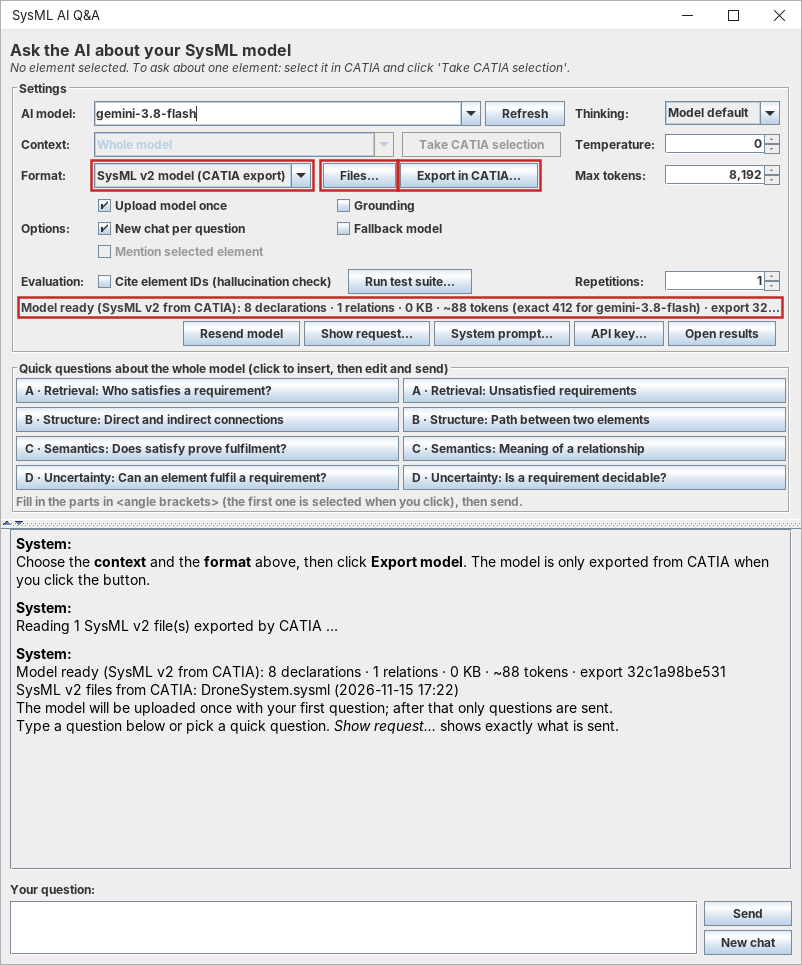
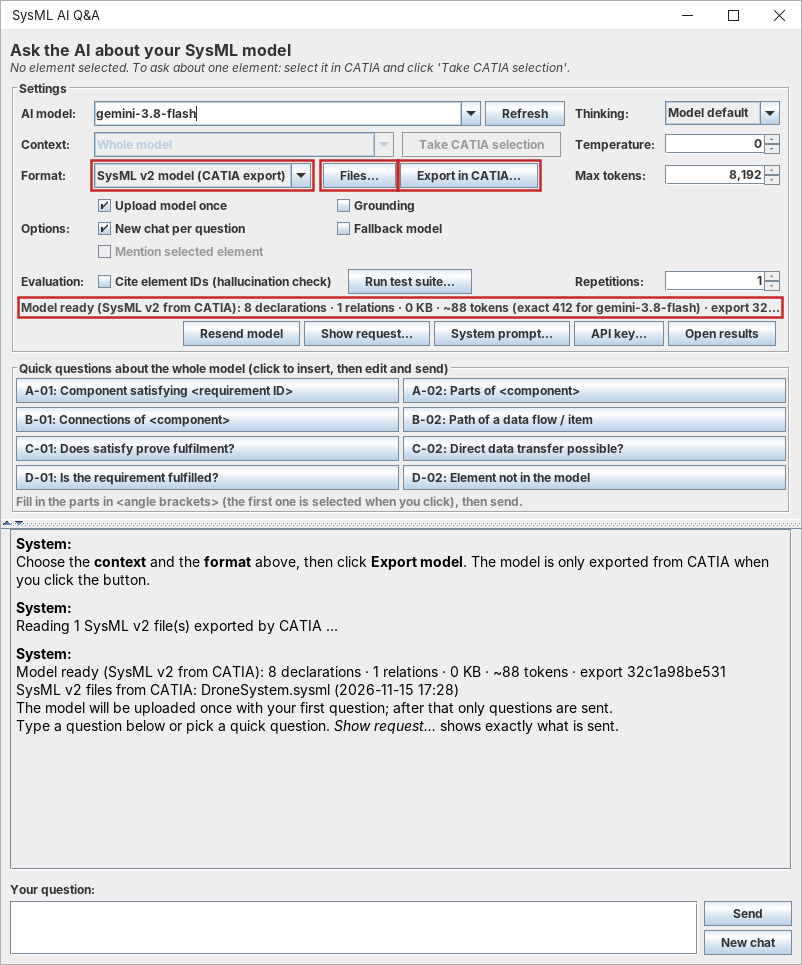
v3.5.1: Schnellfragen durch Fragenkatalog A-01 bis D-02 ersetzt

Changed region(s): [[0.0312, 0.4041, 0.4052, 0.4974], [0.5299, 0.4041, 0.8105, 0.4974]]

diff --git a/src/de/hm/sysmlaiqa/api/QuickQuestions.java b/src/de/hm/sysmlaiqa/api/QuickQuestions.java
@@ -6,24 +6,22 @@ import java.util.List;
 import java.util.stream.Collectors;
 
 /**
- * Schnellfragen als allgemeine Vorlagen mit Platzhaltern (z. B. "<add requirement>"), die der Nutzer ausfüllt.
- * Aufbau nach den vier Kategorien der Aufgabenstellung (Beispiele aus der Projektbeschreibung):
- *   A Information Retrieval  – "Welche Komponente erfüllt die Anforderung XYZ?"
- *   B Structural Reasoning   – "Welche Komponenten stehen indirekt mit Bauteil XYZ in Verbindung?"
- *   C Semantic Reasoning     – "Beweist eine satisfy-Beziehung, dass eine Anforderung tatsächlich erfüllt ist?"
- *   D Uncertainty            – "Reicht die Batterie für vier Stunden Betriebszeit?"
- * Zwei Sätze: Fragen zum ganzen Modell (nur Platzhalter) und Fragen zu einem Element (ausgewähltes Element eingesetzt).
+ * Schnellfragen: die acht Testfragen des Fragenkatalogs (A-01 … D-02) als Vorlagen mit Platzhaltern in spitzen
+ * Klammern, die der Nutzer ausfüllt. Kategorien:
+ *   A Information Retrieval, B Structural Reasoning, C Semantic Reasoning, D Uncertainty.
+ * Ist ein Element ausgewählt, setzt das Plugin seinen Namen in die passenden Platzhalter ein:
+ * bei einer Anforderung in "<requirement ID…>", sonst in "<component>" bzw. "<component 1>".
  */
 public final class QuickQuestions {
 
-    public static final String REQ = "<add requirement>";
-    public static final String ELEM = "<add element>";
-    public static final String ELEM2 = "<add second element>";
+    public static final String REQ = "<requirement ID>";
+    public static final String COMP = "<component>";
+    public static final String COMP1 = "<component 1>";
 
     private QuickQuestions() { }
 
     public static class Question {
-        public final String category;  // z. B. "A · Retrieval"
+        public final String category;  // z. B. "A-01"
         public final String label;     // kurzer Button-Text
         public final String text;      // vollständige Frage
 
@@ -40,16 +38,27 @@ public final class QuickQuestions {
      * @param focusName   Name des ausgewählten Elements oder null
      * @param focusType   Typ des ausgewählten Elements (z. B. "Requirement", "Block") oder null
      * @param seed        nicht mehr verwendet (Vorlagen sind fest)
-     * @param elementMode true = Fragen zum Element, false = Fragen zum ganzen Modell
+     * @param elementMode true = ausgewähltes Element einsetzen, false = alle Platzhalter frei
      */
     public static List<Question> generate(ModelIndex idx, String focusId, String focusName, String focusType,
                                           long seed, boolean elementMode) {
-        if (!elementMode || focusName == null || focusName.isBlank()) return modelQuestions();
+        List<Question> all = catalogue();
+        if (!elementMode || focusName == null || focusName.isBlank()) return all;
         ModelIndex.Elem e = idx == null ? null : findFocus(idx, focusId, focusName);
         boolean isRequirement = (e != null && e.isRequirement())
                 || (focusType != null && focusType.contains("Requirement"));
         String x = "\"" + focusName.trim() + "\"";
-        return isRequirement ? requirementQuestions(x) : elementQuestions(x);
+        List<Question> out = new ArrayList<>();
+        for (Question q : all) {
+            String text = isRequirement
+                    ? q.text.replaceFirst("<requirement ID[^>]*>", java.util.regex.Matcher.quoteReplacement(x))
+                    : q.text.replace(COMP, x).replace(COMP1, x);
+            String label = isRequirement
+                    ? q.label.replaceFirst("<requirement ID[^>]*>", java.util.regex.Matcher.quoteReplacement(x))
+                    : q.label.replace(COMP, x).replace(COMP1, x);
+            out.add(new Question(q.category, label, text));
+        }
+        return out;
     }
 
     public static List<Question> generate(ModelIndex idx, String focusId, long seed, boolean elementMode) {
@@ -57,92 +66,35 @@ public final class QuickQuestions {
     }
 
     // ═══════════════════════════════════════════════════════════════════════
-    // Ganzes Modell – alle Platzhalter frei
+    // Fragenkatalog A-01 … D-02
     // ═══════════════════════════════════════════════════════════════════════
 
-    private static List<Question> modelQuestions() {
+    private static List<Question> catalogue() {
         List<Question> q = new ArrayList<>();
-        q.add(new Question("A · Retrieval", "Who satisfies a requirement?",
-                "Which component satisfies the requirement " + REQ + "? Name each element and the relationship type."));
-        q.add(new Question("A · Retrieval", "Unsatisfied requirements",
-                "Which requirements in the model are not satisfied by any element? List them by name."));
-        q.add(new Question("B · Structure", "Direct and indirect connections",
-                "Which components are directly or indirectly connected to " + ELEM + "? Show the path for each."));
-        q.add(new Question("B · Structure", "Path between two elements",
-                "How is " + ELEM + " connected to " + ELEM2 + "? Show the complete chain of relationships, element by element, "
-                        + "with the relationship type at each step."));
-        q.add(new Question("C · Semantics", "Does satisfy prove fulfilment?",
-                "Does the satisfy relationship of " + REQ + " prove that the requirement is actually fulfilled? "
-                        + "Explain using the model (verify relationships, test cases, constraints, values)."));
-        q.add(new Question("C · Semantics", "Meaning of a relationship",
-                "What does the relationship between " + ELEM + " and " + ELEM2 + " mean technically for the system, "
-                        + "and what does it NOT guarantee?"));
-        q.add(new Question("D · Uncertainty", "Can an element fulfil a requirement?",
-                "Can " + ELEM + " fulfil the requirement " + REQ + "? If the model does not contain enough information "
-                        + "to decide this, say so and name exactly what is missing."));
-        q.add(new Question("D · Uncertainty", "Is a requirement decidable?",
-                "Is there enough information in the model to decide whether " + REQ + " is fulfilled? "
-                        + "If not, name exactly which values or relationships are missing."));
-        return q;
-    }
-
-    // ═══════════════════════════════════════════════════════════════════════
-    // Ein Element (kein Requirement) – Element eingesetzt
-    // ═══════════════════════════════════════════════════════════════════════
-
-    private static List<Question> elementQuestions(String x) {
-        List<Question> q = new ArrayList<>();
-        q.add(new Question("A · Retrieval", "Requirements of " + x,
-                "Which requirements does " + x + " satisfy, and through which relationships?"));
-        q.add(new Question("A · Retrieval", "Parts, ports, values of " + x,
-                "Which parts, ports and value properties does " + x + " have? List each with its type and, if given, its value."));
-        q.add(new Question("B · Structure", "Connections of " + x,
-                "Which components are directly or indirectly connected to " + x + "? Show the path for each."));
-        q.add(new Question("B · Structure", "Path from " + x + " to another element",
-                "How is " + x + " connected to " + ELEM + "? Show the complete chain of relationships, element by element, "
-                        + "with the relationship type at each step."));
-        q.add(new Question("C · Semantics", "Does satisfy prove fulfilment?",
-                "Do the satisfy relationships of " + x + " prove that the requirements it satisfies are actually fulfilled? "
-                        + "Explain using the model (verify relationships, test cases, constraints, values)."));
-        q.add(new Question("C · Semantics", "Meaning of a relationship of " + x,
-                "What does the relationship between " + x + " and " + ELEM + " mean technically for the system, "
-                        + "and what does it NOT guarantee?"));
-        q.add(new Question("D · Uncertainty", "Can " + x + " fulfil a requirement?",
-                "Can " + x + " fulfil the requirement " + REQ + "? If the model does not contain enough information "
-                        + "to decide this, say so and name exactly what is missing."));
-        q.add(new Question("D · Uncertainty", "What is missing about " + x + "?",
-                "Which information about " + x + " is missing in the model to judge whether it works correctly in the system "
-                        + "(e.g. values, interfaces, behaviour, verification)?"));
-        return q;
-    }
-
-    // ═══════════════════════════════════════════════════════════════════════
-    // Ein Requirement – Requirement eingesetzt
-    // ═══════════════════════════════════════════════════════════════════════
-
-    private static List<Question> requirementQuestions(String r) {
-        List<Question> q = new ArrayList<>();
-        q.add(new Question("A · Retrieval", "Who satisfies " + r + "?",
-                "Which component satisfies the requirement " + r + "? Name each element and the relationship type."));
-        q.add(new Question("A · Retrieval", "Verify, refine, derive of " + r,
-                "Which elements verify or refine " + r + ", and which requirements are derived from it or contain it?"));
-        q.add(new Question("B · Structure", "Connections of " + r,
-                "Which components are directly or indirectly connected to " + r + "? Show the path for each."));
-        q.add(new Question("B · Structure", "Path from " + r + " to an element",
-                "How is " + r + " connected to " + ELEM + "? Show the complete chain of relationships, element by element, "
-                        + "with the relationship type at each step."));
-        q.add(new Question("C · Semantics", "Does satisfy prove " + r + "?",
-                "Does the satisfy relationship of " + r + " prove that the requirement is actually fulfilled? "
-                        + "Explain using the model (verify relationships, test cases, constraints, values)."));
-        q.add(new Question("C · Semantics", "Meaning of the relationships of " + r,
-                "What do the relationships of " + r + " (satisfy, verify, refine, derive) mean technically, "
-                        + "and what do they NOT guarantee?"));
-        q.add(new Question("D · Uncertainty", "Is " + r + " decidable?",
-                "Is there enough information in the model to decide whether " + r + " is fulfilled? "
-                        + "If not, name exactly which values or relationships are missing."));
-        q.add(new Question("D · Uncertainty", "Can an element fulfil " + r + "?",
-                "Can " + ELEM + " fulfil the requirement " + r + "? If the model does not contain enough information "
-                        + "to decide this, say so and name exactly what is missing."));
+        // A: Information Retrieval
+        q.add(new Question("A-01", "Component satisfying " + REQ,
+                "Which component satisfies the requirement " + REQ + "?"));
+        q.add(new Question("A-02", "Parts of " + COMP,
+                "Which subcomponents (parts) does " + COMP + " consist of?"));
+        // B: Structural Reasoning
+        q.add(new Question("B-01", "Connections of " + COMP,
+                "Which components is " + COMP + " directly connected to, and which only indirectly via other components?"));
+        q.add(new Question("B-02", "Path of a data flow / item",
+                "How does <data flow / item> get from " + COMP1 + " to <component 2, with at least one component in between>? "
+                        + "Name all components, ports and interfaces along the way."));
+        // C: Semantic Reasoning
+        q.add(new Question("C-01", "Does satisfy prove fulfilment?",
+                "Does the satisfy relationship between " + COMP + " and " + REQ + " prove that the requirement is fulfilled? "
+                        + "Explain your answer."));
+        q.add(new Question("C-02", "Direct data transfer possible?",
+                "Can " + COMP1 + " send data directly to <component 2, not directly connected to component 1>? "
+                        + "Justify your answer using the model."));
+        // D: Uncertainty
+        q.add(new Question("D-01", "Is the requirement fulfilled?",
+                "Does the system actually fulfil the requirement <requirement ID without test results in the model> "
+                        + "in its current state?"));
+        q.add(new Question("D-02", "Element not in the model",
+                "What type and which properties does <element that is not in the model, e.g. a name only mentioned in a text> have?"));
         return q;
     }
 

diff --git a/src/de/hm/sysmlaiqa/ui/ExplanationDialog.java b/src/de/hm/sysmlaiqa/ui/ExplanationDialog.java
@@ -1263,7 +1263,7 @@ public class ExplanationDialog extends JFrame {
             addMessage("System", "The context was changed. Click <b>Export model</b> to export it, then send the question.");
             return;
         }
-        if (question.matches("(?s).*<[^<>]{1,40}>.*")) {
+        if (question.matches("(?s).*<[^<>]{1,100}>.*")) {
             int choice = JOptionPane.showConfirmDialog(this,
                     "Your question still contains a placeholder like <element>. Send anyway?",
                     "Placeholder", JOptionPane.YES_NO_OPTION);

diff --git a/HANDBUCH.md b/HANDBUCH.md
@@ -301,25 +301,31 @@ Element per Rechtsklick → **Ask AI…** öffnen (oder im offenen Fenster das E
 - Oben steht das gewählte Element mit Typ, z. B. *Selected element: Operating Time [Requirement]*.
 - **Context** steht auf *Selected element + surroundings*. Die KI bekommt nur dieses Element und seine Umgebung. Das ist schneller, aber Fragen zu weit entfernten Teilen kann sie dann nicht beantworten. Dann **Depth** erhöhen oder auf *Whole model* umstellen.
 - **Mention selected element** (an) nennt der KI das gewählte Element bei der ersten Frage. Ausschalten, wenn die KI das Element selbst finden soll.
-- Die **Schnellfragen** beziehen sich auf das gewählte Element. Für Requirements gibt es eigene Fragen (z. B. zu satisfy und verify).
+- In den **Schnellfragen** ist das gewählte Element schon eingesetzt (bei einer Anforderung in `<requirement ID>`, sonst in `<component>`).
 
 ---
 
 ## 9. Schnellfragen
 
-Die Schnellfragen sind Vorlagen für die vier Fähigkeiten, die das Projekt untersucht:
+Die Schnellfragen sind die acht Fragen des Fragenkatalogs, je zwei für die vier Fähigkeiten, die das Projekt untersucht:
 
-| Kategorie | Prüft | Beispiel |
-| --- | --- | --- |
-| **A · Retrieval** | Findet die KI Informationen im Modell? | *Which component satisfies the requirement …?* |
-| **B · Structure** | Verfolgt sie direkte und indirekte Verbindungen? | *Which components are directly or indirectly connected to …?* |
-| **C · Semantics** | Versteht sie, was eine Beziehung bedeutet? | *Does the satisfy relationship prove that the requirement is fulfilled?* |
-| **D · Uncertainty** | Erkennt sie fehlende Informationen? | *Is there enough information to decide whether … is fulfilled?* |
+| Kategorie | Prüft | ID | Frage |
+| --- | --- | --- | --- |
+| **A: Information Retrieval** | Findet die KI Informationen im Modell? | A-01 | *Which component satisfies the requirement `<requirement ID>`?* |
+| | | A-02 | *Which subcomponents (parts) does `<component>` consist of?* |
+| **B: Structural Reasoning** | Verfolgt sie direkte und indirekte Verbindungen? | B-01 | *Which components is `<component>` directly connected to, and which only indirectly via other components?* |
+| | | B-02 | *How does `<data flow / item>` get from `<component 1>` to `<component 2, with at least one component in between>`? Name all components, ports and interfaces along the way.* |
+| **C: Semantic Reasoning** | Versteht sie, was eine Beziehung bedeutet? | C-01 | *Does the satisfy relationship between `<component>` and `<requirement ID>` prove that the requirement is fulfilled? Explain your answer.* |
+| | | C-02 | *Can `<component 1>` send data directly to `<component 2, not directly connected to component 1>`? Justify your answer using the model.* |
+| **D: Uncertainty** | Erkennt sie fehlende Informationen? | D-01 | *Does the system actually fulfil the requirement `<requirement ID without test results in the model>` in its current state?* |
+| | | D-02 | *What type and which properties does `<element that is not in the model, e.g. a name only mentioned in a text>` have?* |
+
+Der Text in den spitzen Klammern sagt, welches Element passt. Ist ein Element ausgewählt und *Context* auf *Selected element + surroundings* gestellt, setzt das Plugin seinen Namen schon ein: bei einer Anforderung in `<requirement ID>`, sonst in `<component>` bzw. `<component 1>`.
 
 So geht's:
 
 1. Eine Schnellfrage anklicken. Sie wird unten ins Eingabefeld übernommen. Mit der Maus über einen Button fahren zeigt die ganze Frage.
-2. Platzhalter in spitzen Klammern ausfüllen, z. B. `<add requirement>`. Der erste Platzhalter ist nach dem Klick schon markiert und lässt sich direkt überschreiben.
+2. Platzhalter in spitzen Klammern ausfüllen, z. B. `<requirement ID>`. Der erste Platzhalter ist nach dem Klick schon markiert und lässt sich direkt überschreiben.
 3. **Send**. Steht noch ein Platzhalter in der Frage, fragt das Plugin vor dem Senden nach.
 
 ![Schnellfragen zu einem Requirement](docs/images/quick-element.png)
@@ -462,7 +468,7 @@ Normal: Bei der ersten Frage wird das Modell hochgeladen. Schneller geht es mit 
 Das Free-Tier-Limit von Google ist erreicht. Beim Minutenlimit wartet das Plugin selbst. Beim Tageslimit bis zum nächsten Tag warten oder ein anderes Modell wählen.
 
 **Die Schnellfragen passen nicht zu meinem Element.**
-Prüfen, ob *Context* auf *Selected element + surroundings* steht. Bei *Whole model* zeigt das Plugin die Fragen zum ganzen Modell.
+Die Schnellfragen sind die acht festen Fragen des Fragenkatalogs. Das ausgewählte Element setzt das Plugin nur bei *Context: Selected element + surroundings* ein, und nur in passende Platzhalter (Anforderung in `<requirement ID>`, sonst in `<component>`). Die übrigen Platzhalter von Hand ausfüllen.
 
 **„Model data too large for …“ oder rote Statuszeile.**
 Das Modell ist größer als das Eingabelimit des KI-Modells. Kleineren *Context* wählen (*Selected packages / elements* oder *surroundings*), das andere Format probieren oder ein KI-Modell mit größerem Limit nehmen.

diff --git a/AENDERUNGEN.md b/AENDERUNGEN.md
@@ -9,6 +9,7 @@ Branch: `feature/free-prompt-full-model` (Basis: Stand SoSe 2026, Commit 2606f7d
 - **Ganzes Modell viel kleiner:** Der Export ließ die Einheitenbibliotheken **ISO-80000** und **QUDV** bisher drin (sie liegen in jedem SysML-Projekt von CATIA). Beim Babyphone-Modell waren das über 21 000 Bibliothekselemente gegenüber etwa 2 200 eigenen; der Export kam auf 2,8 Mio. Tokens und passte in kein Gemini-Modell. Beide Bibliotheken werden jetzt wie die SysML- und UML-Bibliotheken weggelassen. Neue `export_sha` – Exporte vor und nach 3.5.1 nicht direkt vergleichen.
 - **Testlauf prüft die Größe vorher:** Passen die Modelldaten nicht in das Eingabelimit eines KI-Modells, überspringt der Testlauf dieses Modell, ohne Fragen zu senden. Scheitert eine Frage trotzdem an der Größe, werden die übrigen Fragen für dieses Modell übersprungen statt einzeln zu scheitern.
 - **Testlauf mit Flash-Lite hing minutenlang:** Vor jeder Frage versuchte das Plugin, das Modell hochzuladen (*Upload model once*). Im Free Tier lehnt Google das für Flash-Lite mit HTTP 429 ab. Der Testlauf behandelte das wie ein Minutenlimit und wartete pro Frage bis zu 5 × 120 s, bevor er die Frage doch ohne Upload schickte; im Chat (kürzere Wartezeit) kam deshalb eine Antwort, im Testlauf scheinbar nichts. Jetzt: Meldet Google ein Kontingent von 0, versucht das Plugin den Upload für dieses KI-Modell nicht mehr (bis *Resend model*) und schickt das Modell sofort mit der Frage. Bei einem gewöhnlichen Minutenlimit wartet der Upload höchstens einmal 30 s.
+- **Schnellfragen = Fragenkatalog:** Die bisherigen Vorlagen sind durch die acht Fragen A-01 … D-02 des Fragenkatalogs ersetzt (je zwei für Information Retrieval, Structural Reasoning, Semantic Reasoning, Uncertainty). Es gibt nur noch einen Satz; ist ein Element ausgewählt (*Selected element + surroundings*), wird sein Name in `<requirement ID>` bzw. `<component>` eingesetzt. Die Warnung vor nicht ausgefüllten Platzhaltern erkennt jetzt auch lange Platzhalter (bis 100 Zeichen).
 - **Live-Status:** Rechts neben *Your question:* zeigt das Plugin mit Uhrzeit, was es gerade tut (z. B. *Question 2/5 (A-02) …*, *Uploading model …*, *per-minute rate limit, waiting 45 s*). Bisher standen Wartezeiten nur im CATIA-Log, ein Testlauf wirkte dann minutenlang eingefroren.
 - **Minimieren, Maximieren, Schließen:** Das Fenster ist jetzt ein eigenes Programmfenster mit allen drei Knöpfen und eigenem Eintrag in der Taskleiste. Bisher hing es als Dialog am CATIA-Fenster und hatte nur *Schließen*. Folge: Klickt man in CATIA, kann das Fenster dahinter liegen; über die Taskleiste kommt es zurück.
 - **Verschiebbare Trennlinie** zwischen Einstellungen und Chat; die Pfeile auf der Linie klappen die Einstellungen ein und aus. Die Einstellungen sind scrollbar.

diff --git a/docs/LASTENHEFT_ABDECKUNG.md b/docs/LASTENHEFT_ABDECKUNG.md
@@ -19,7 +19,7 @@ Status: ✅ erfüllt · 🟡 teilweise / mit Einschränkung · ⬜ offen
 | FR6 | Export SysML v1 wie bisher | ✅ | *Format: SysML v1 (JSON export)* | – |
 | FR7 | Export der textuellen Notation von SysML v2 | ✅ | **SysML-v2-Projekte:** *Format: SysML v2 model (CATIA export)* schickt die `.sysml`-Dateien, die CATIA selbst exportiert (*File → Export To → SysML v2 Textual Notation*, im Plugin über **Export in CATIA…** und **Files…**). Eigener System-Prompt, ID-Check über qualifizierte Namen, Schnellfragen aus dem Text. Zusätzlich für v1-Projekte *SysML v2 (converted from v1)* (gleiches Modell, andere Notation). Siehe [`EXPORTFORMATE.md`](EXPORTFORMATE.md#5-format-sysml-v2-modell-aus-catia) | Show request, Tab 2; Log `export_format = sysml_v2_native`, `scope = SYSML_V2_FILES`, Dateien mit Zeitstempel in `export_scope_detail` |
 | FR8 | Prompt in der GUI, nicht im Code | ✅ | Eingabefeld *Your question* | – |
-| FR8.1 | Prompt-Vorlagen (z. B. pro Fehlerkategorie) | ✅ | *Quick questions* nach Kategorie A Retrieval, B Structure, C Semantics, D Uncertainty, aus echten Modellelementen erzeugt; Testfälle aus CSV mit Kategorie | Schnellfrage anklicken → Vorlage im Eingabefeld |
+| FR8.1 | Prompt-Vorlagen (z. B. pro Fehlerkategorie) | ✅ | *Quick questions*: die acht Fragen des Fragenkatalogs (A-01 … D-02) nach Kategorie A Information Retrieval, B Structural Reasoning, C Semantic Reasoning, D Uncertainty, das ausgewählte Element wird eingesetzt; Testfälle aus CSV mit Kategorie | Schnellfrage anklicken → Vorlage im Eingabefeld |
 | FR9 | System-Prompt in der GUI sichtbar und änderbar, Nutzung immer dokumentieren | ✅ | **System prompt…** (je Format, *Reset to default*); gespeichert unter `Dokumente\SysML-AI-QA\prompts`. Jede Fassung im Wortlaut im Archiv, Log `system_prompt_sha`, `system_prompt_source` | Prompt ändern, Frage stellen → neue `system_prompt_sha`, `system_prompt_source = custom`, Datei in `archive/prompts` |
 | FR10 | Grounding ein/aus, Zustand pro Anfrage protokolliert | ✅ | *Grounding*; Log `grounding` | – |
 | FR11 | Protokoll pro Anfrage: Zeitstempel, Modell, Parameter, Grounding, System-Prompt, Prompt, exakter Export inkl. Umfang und Tokens, vollständige Antwort | ✅ | `answers_log.csv/.xlsx` und `runs/run_*.csv/.xlsx`: `timestamp`, `model_*`, Parameter, `grounding`, `system_prompt_sha` (+ Archiv), `question`, `user_message` (exakte Nachricht), `previous_turns`, `export_format`, `scope`, `export_scope_detail`, `export_sha` (+ Archiv), `export_tokens_*`, `prompt_tokens`, `answer_tokens`, `thoughts_tokens`, `total_tokens`, alle Schalter (`allow_fallback`, `upload_once`, `mention_focus`, Depth, Repetitions), `answer`; Blatt *Tokens* mit Summen | Spaltenliste in [`evaluation/README.md`](../evaluation/README.md) |

diff --git a/README.md b/README.md
@@ -24,7 +24,7 @@ Entwickelt im Projekt **„How well does AI understand the SysML model?“** –
 - Freie Fragen zum ganzen Modell, zu ausgewählten Paketen/Elementen oder zu einem Element mit einstellbarer Umgebung stellen, mit Folgefragen im Chat
 - SysML-v1- und SysML-v2-Modelle senden (v1 als JSON oder in SysML-v2-Notation, v2-Projekte als Textexport von CATIA), Größe und exakte Tokens vorab sehen
 - Genau ansehen und speichern, was gesendet wird (*Show request…*), System-Prompt im Fenster ändern, laufende Anfragen abbrechen
-- Schnellfragen als Vorlagen nach den vier Kategorien A Retrieval, B Structure, C Semantics, D Uncertainty
+- Schnellfragen: die acht Fragen des Fragenkatalogs (A-01 … D-02) nach den vier Kategorien A Information Retrieval, B Structural Reasoning, C Semantic Reasoning, D Uncertainty
 - Alle Versuchsparameter in einem Fenster: KI-Modell, Temperatur, Thinking, Kontext, Grounding, Fallback, Wiederholungen
 - Eine Testsuite aus einer CSV-Datei automatisch abarbeiten und jede Antwort mit Versuchsaufbau protokollieren (CSV für Excel)
 - Zitierte Element-IDs gegen das Modell prüfen
